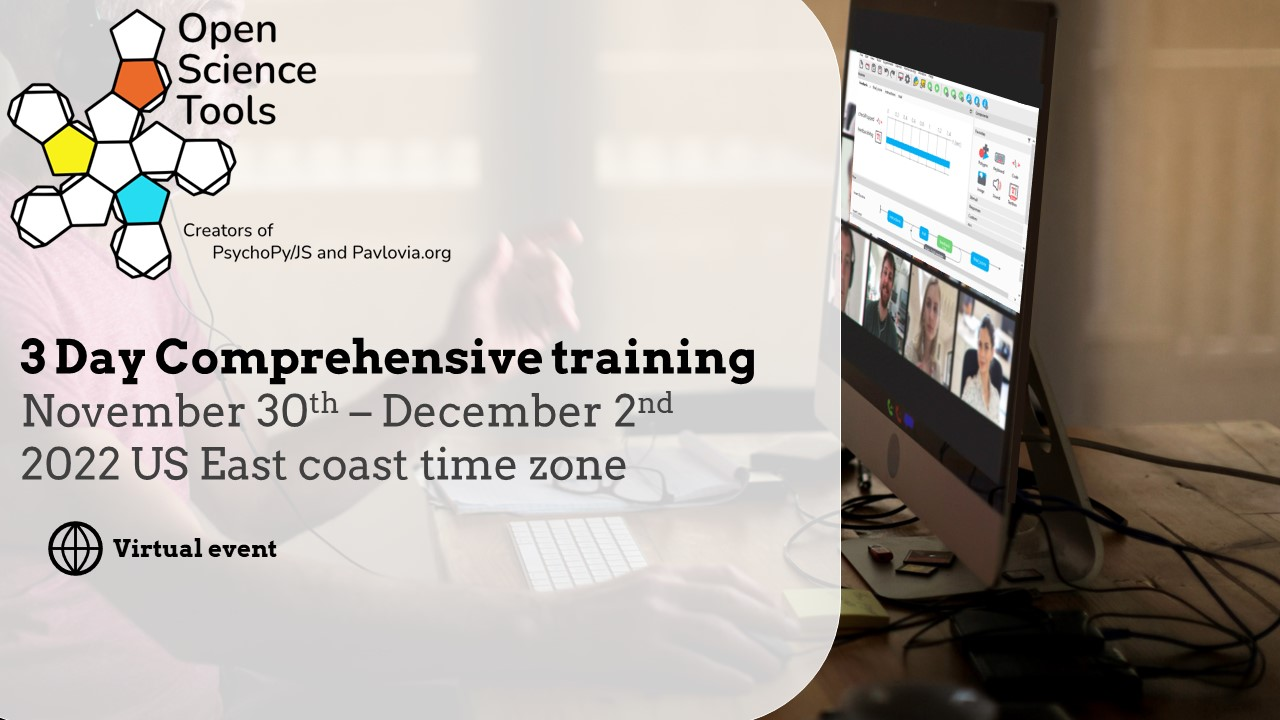
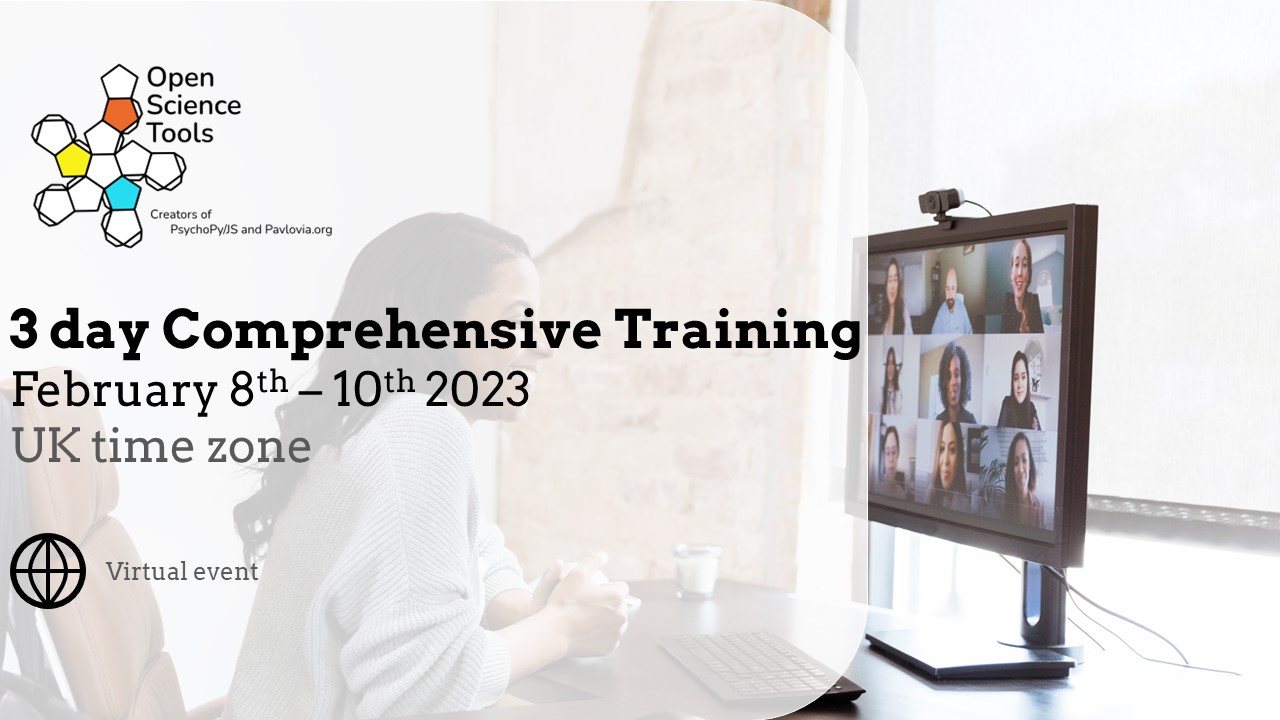
add adverts for new events

diff --git a/source/index.rst b/source/index.rst
@@ -26,13 +26,18 @@ Come an join us in learning PsychoPy! Book onto one of our scheduled events or b
 
         Join the team for our virtual 3 day comprehensive workshop!
 
+      .. figure:: /_images/UoNadvert.jpg
+        :target: https://workshops.psychopy.org/3days/index.html#dayindex
+
+        Join the team in person at the University of Nottingham!
+
+      .. figure:: /_images/TobiiWorkshopAd.jpg
+        :target: https://store.nottingham.ac.uk/conferences-and-events/conferences/schools-and-departments/psychology/psychopy-tobii-eyetracking
+        
       .. figure:: /_images/SurveysLaunch.jpg
         :target: https://www.youtube.com/watch?v=1fs8CVKBPGk
 
         You can now make surveys directly in Pavlovia - learn how!
-
-      .. figure:: /_images/TobiiWorkshopAd.jpg
-        :target: https://store.nottingham.ac.uk/conferences-and-events/conferences/schools-and-departments/psychology/psychopy-tobii-eyetracking
 
         Get started making your eye tracking experiment in this workshop with the PsychoPy and Tobii team.
 
@@ -47,8 +52,9 @@ Come an join us in learning PsychoPy! Book onto one of our scheduled events or b
 Upcoming events
 ------------------
 
-* **November 30th 2022 - December 2nd 2022** (US East Coast timezone) - 3 day comprehensive workshop. :ref:`Details here <3dayIndex>` 
 * **January 13th 2023** Making eyetracking experiments with Tobii and PsychoPy. *In Person Event at The University of Nottingham* :ref:`Details here <tobiievent>` 
+* **February 8th - 10th 2023** (UK timezone) - Virtual- 3 day comprehensive workshop. :ref:`Details here <3dayIndex>` 
+* **April 17th - 19th 2023** - In person event, hosted at the University of Nottingham- 3 day comprehensive workshop. :ref:`Details here <3dayIndex>` 
 
 
 

diff --git a/source/3days/index.rst b/source/3days/index.rst
@@ -8,7 +8,10 @@ Creating Experiments in PsychoPy (3 days)
   Upcoming Events
   -------------------
 
-  * **November 30th 2022 - December 2nd 2022** (US East Coast) - 3 day comprehensive workshop. `Tickets here <https://pavlovia.org/store/workshops/2022-11-30-psychopy-creating-experiments>`_
+  * **February 8th - 10th 2023** (UK timezone) - Virtual- 3 day comprehensive workshop. `Purchase tickets here <https://pavlovia.org/store/workshops/2023-2-8-psychopy-creating-experiments>`_
+  * **April 17th - 19th 2023** - In person event, hosted at the University of Nottingham- 3 day comprehensive workshop. `Register interest here <https://run.pavlovia.org/pavlovia/survey/?surveyId=dfb7d35c-8a1f-4a93-a35b-aac0e8653b6a>`_
+
+  
 
   About 
   ---------
